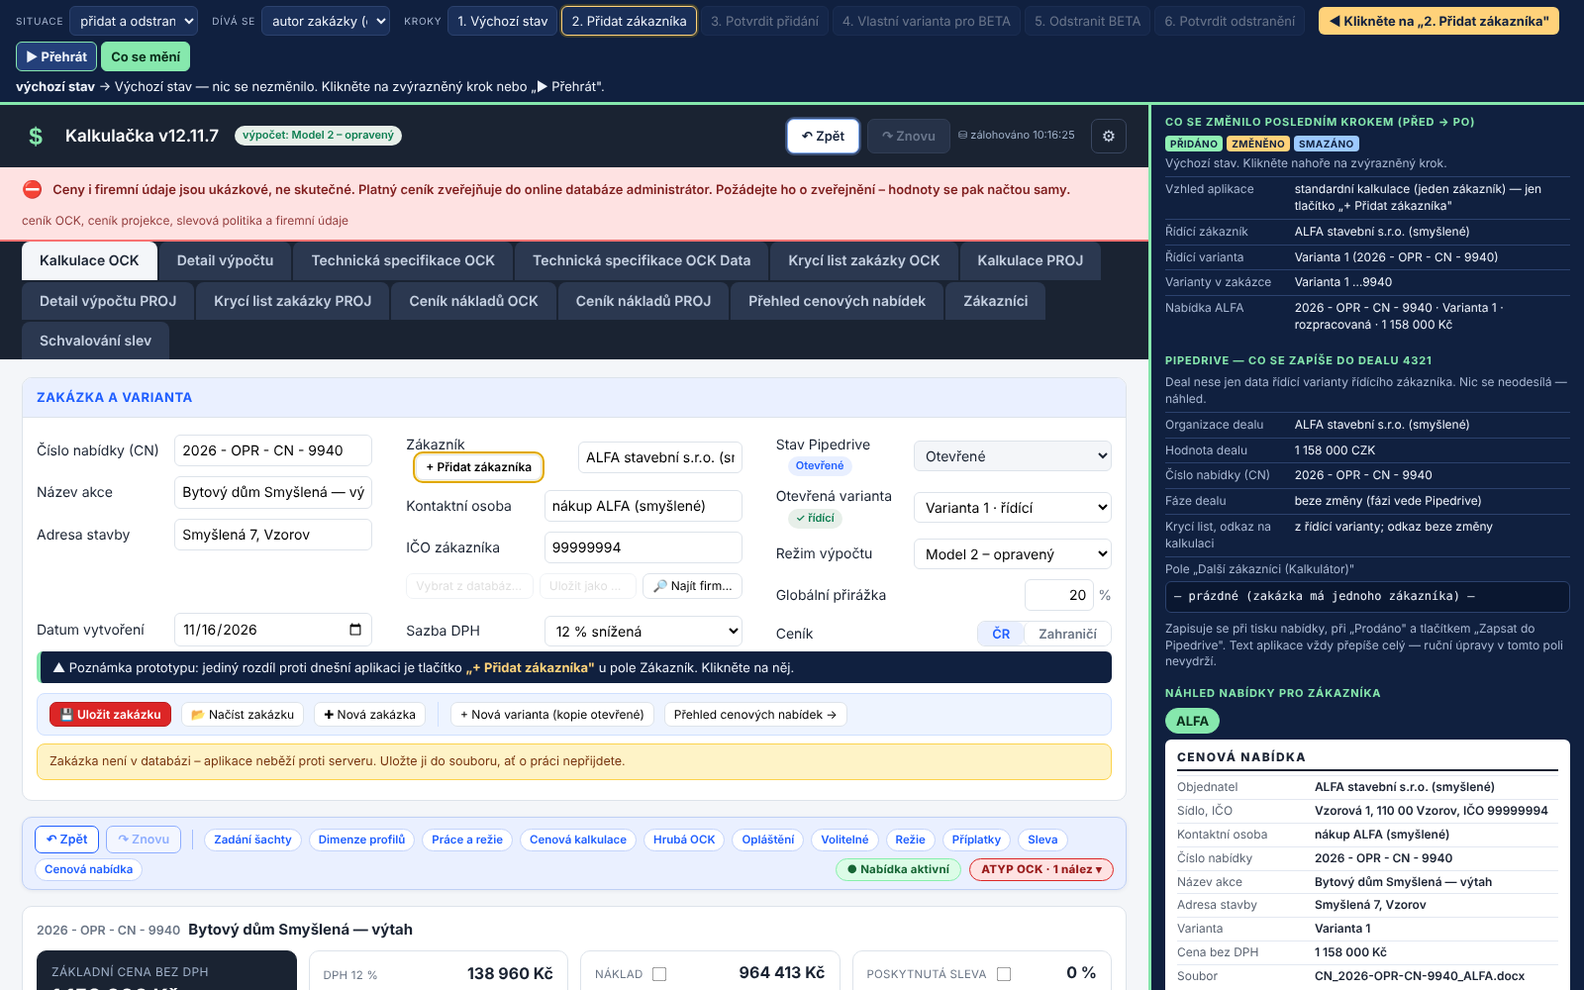
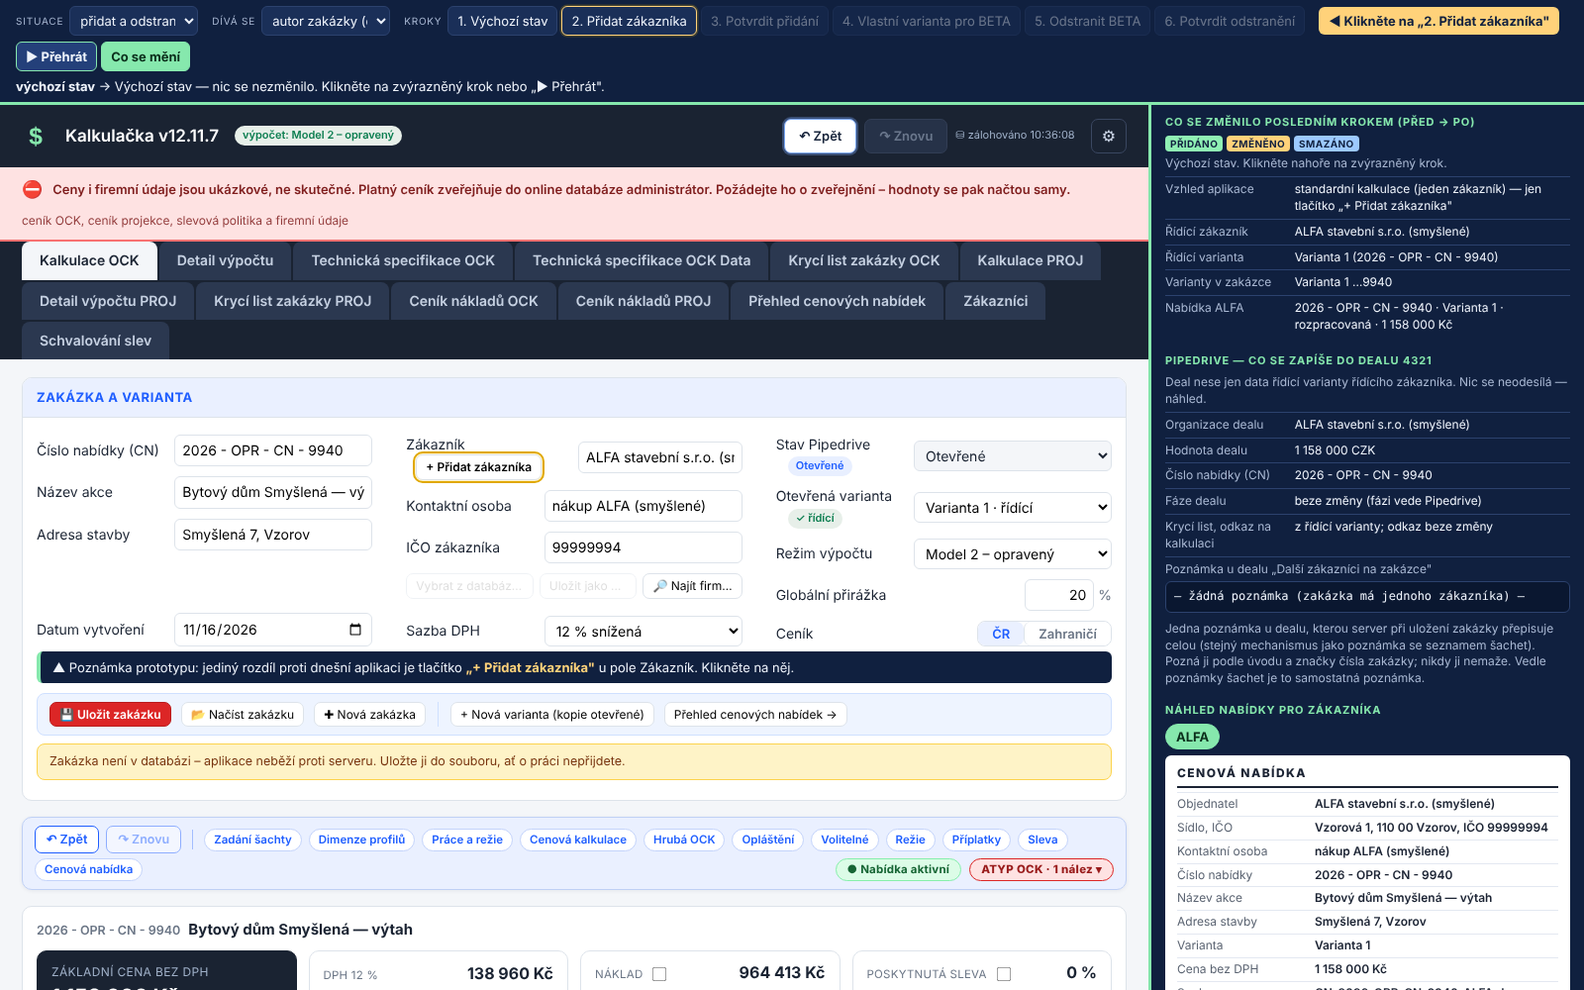
WIP: prototyp víc zákazníků v3 (poznámka u dealu, organizace při Prodáno, odstranění s odeslanou nabídkou jen administrátor)
Claude-Session: https://claude.ai/code/session_018mwHQHkWhKrpvqrinmjojg

Changed region(s): [[0.7188, 0.558, 1.0, 1.0], [0.4688, 0.124, 0.6562, 0.155]]

diff --git a/podklady/vz_prototyp/prototyp.js b/podklady/vz_prototyp/prototyp.js
@@ -25,12 +25,13 @@
     pridat: { nazev: 'přidat a odstranit zákazníka', kroky: [['form', '2. Přidat zákazníka'], ['pridejForm:b', '3. Potvrdit přidání'], ['vlastni:b', '4. Vlastní varianta pro BETA'], ['odeber:b', '5. Odstranit BETA'], ['odeberAno', '6. Potvrdit odstranění']] },
     odeslana: { nazev: 'odstranit zákazníka s odeslanou nabídkou', kroky: [['odeber:b', '2. Odstranit BETA'], ['odeberAno', '3. Potvrdit odstranění']] },
     stejna: { nazev: 'stejná varianta pro víc zákazníků', kroky: [['pridej:b', '2. Přidat zákazníka BETA'], ['odesli:a', '3. Odeslat nabídku ALFA'], ['odesli:b', '4. Odeslat tutéž nabídku BETA']] },
-    prodej: { nazev: 'prodej druhému zákazníkovi', kroky: [['prodej:b', '2. Prodáno → BETA'], ['prodejAno', '3. Potvrdit prodej'], ['org', '4. Změnit organizaci dealu'], ['orgAno', '5. Potvrdit zápis']] },
+    prodej: { nazev: 'prodej druhému zákazníkovi', kroky: [['prodej:b', '2. Prodáno → BETA'], ['prodejAno', '3. Potvrdit prodej'], ['orgAno', '4. Zkusit zápis organizace znovu (jen po výpadku)']] },
   };
+  const PD_STAVY = { ok: 'Pipedrive odpoví', vypadek: 'výpadek Pipedrive' };
   const ROLE = { autor: 'autor zakázky (obchodník)', jiny: 'jiný obchodník', admin: 'administrátor' };
   const ZNACKY = { pridano: 'přidáno', zmeneno: 'změněno', smazano: 'smazáno', beze: 'beze změny' };
   const DEAL_ID = '4321';
-  const S = { scenar: 'pridat', role: 'autor', otevreno: true, hraje: null, blik: false, nahled: '' };
+  const S = { scenar: 'pridat', role: 'autor', pd: 'ok', otevreno: true, hraje: null, blik: false, nahled: '' };
   let P, OBS = null, PK = null, KRESLI = false;
   const puvodni = { variantaCislo: window.variantaCislo, cisloSVariantou: window.cisloSVariantou };
 
@@ -88,14 +89,15 @@
   /* ----- Pipedrive: co deal ponese ----- */
   function dalsiText() {
     const ost = P.zak.filter((z) => z.id !== P.ridici);
-    if (!ost.length) return '';
+    const znacka = ' — nabídka ' + String(ZAK.cislo);
+    if (!ost.length) return P.poznamka ? 'Další zákazníci na zakázce: žádní' + znacka : '';
     const prodano = !!prodanoZ();
-    return 'Další zákazníci na zakázce (zapsal Kalkulátor ' + dnes() + '):\n' + ost.map((z) => {
+    return 'Další zákazníci na zakázce:\n' + ost.map((z) => {
       const pl = z.platna;
       const nab = pl ? 'CN ' + pl.cislo + ' z ' + pl.datum + ', ' + kc(pl.cena) + ' bez DPH' : 'nabídka zatím neodeslána (' + cisloZ(z) + ')';
       const nova = pl && pl.vid !== z.varianta ? ' · připravuje se nová ' + cisloZ(z) : '';
       return '• ' + z.nazev + ' — ' + nab + nova + (prodano ? ' — neprodáno' : '');
-    }).join('\n');
+    }).join('\n') + '\n' + znacka.trim();
   }
   function pd() {
     const rz = ridiciZ(), rv = Va(rz.varianta);
@@ -127,7 +129,7 @@
   function novyZ(id, varianta) { return Object.assign({ id, pismeno: PISMENA[id], varianta, odeslano: {}, platna: null, prodano: '' }, FIRMY[id]); }
   function pridej(id, vlastniVar) {
     const rz = ridiciZ();
-    P.zak.push(novyZ(id, rz.varianta));
+    P.zak.push(novyZ(id, rz.varianta)); P.poznamka = true;
     zapis(ROLE[S.role], 'přidal zákazníka ' + FIRMY[id].kratce + ' (písmeno ' + PISMENA[id] + ') — nabídka ' + cisloZ(Zk(id)) + ', stejná varianta jako ' + rz.kratce);
     if (vlastniVar) vlastni(id); else otevri(id);
   }
@@ -176,13 +178,20 @@
     zapis(ROLE[S.role], 'PRODÁNO zákazníkovi ' + z.kratce + ' (nabídka ' + cisloZ(z) + '); řídící zákazník ' + stary.kratce + ' → ' + z.kratce
       + ', řídící varianta „' + v.nazev + '" (#563); do dealu ' + DEAL_ID + ' jdou data této varianty, ' + P.zak.filter((x) => x.id !== id).map((x) => x.kratce).join(', ') + ' zůstává jako textová zmínka');
     otevri(id);
+    orgZapis(false);
   }
-  function orgAno() {
-    const stara = P.deal.org;
-    P.potvrzeni = null;
-    P.deal.org = ridiciZ().nazev;
-    zapis(ROLE[S.role], 'změnil organizaci dealu ' + DEAL_ID + ' v Pipedrive: ' + stara + ' → ' + P.deal.org + ' (po potvrzení)');
+  /* Organizace dealu = vítězný zákazník (J. V. 16. 11. 2026). Server ji najde podle IČO, jinak založí. */
+  function orgZapis(znovu) {
+    const stara = P.deal.org, rz = ridiciZ();
+    if (S.pd === 'vypadek' && !znovu) {
+      P.orgStav = 'chyba';
+      zapis('server', 'organizaci dealu ' + DEAL_ID + ' se nepodařilo přepsat (Pipedrive neodpověděl včas) — prodej je uložený, zápis čeká');
+      return;
+    }
+    P.deal.org = rz.nazev; P.orgStav = 'zapsano';
+    zapis('server', 'organizace dealu ' + DEAL_ID + ' přepsána na vítězného zákazníka: ' + stara + ' → ' + rz.nazev + ' (nalezena podle IČO ' + rz.ico + '; kdyby v Pipedrive nebyla, založí se)' + (znovu ? ' — opakovaný zápis, spustil ' + ROLE[S.role] : ''));
   }
+  function orgAno() { orgZapis(true); }
   /* Odstranění dalšího zákazníka. Co odešlo, zůstává doložené: zamčená varianta se nemaže (pravidlo #34),
    * razítko tisku se snímkem adresáta zůstává v zámku. Nezamčenou vlastní variantu lze smazat s ním. */
   function odeberInfo(id) {
@@ -218,16 +227,15 @@
     if (co === 'uprav') return !!z && !zamcena && sdili(z).length === 1 && Z.zdvih !== 15;
     if (co === 'prodej') return !!z && !!odeslanoTed(z) && !prodano && !P.potvrzeni;
     if (co === 'prodejAno') return !!(P.potvrzeni && P.potvrzeni.typ === 'prodej');
-    if (co === 'org') return orgNesedi() && smiRidit() && !P.potvrzeni;
-    if (co === 'orgAno') return !!(P.potvrzeni && P.potvrzeni.typ === 'org');
+    if (co === 'orgAno') return P.orgStav === 'chyba' && orgNesedi() && smiRidit();
     if (co === 'ridici') return !!z && z.id !== P.ridici && !prodano && smiRidit();
-    if (co === 'odeber') return !!z && z.id !== P.ridici && !z.prodano && !P.potvrzeni && (smiRidit() || !Object.keys(z.odeslano).length);
+    if (co === 'odeber') return !!z && z.id !== P.ridici && !z.prodano && !P.potvrzeni && (S.role === 'admin' || !Object.keys(z.odeslano).length);
     return true;
   }
   const dalsiKrok = () => (SCENARE[S.scenar].kroky.find(([a], i) => i >= P.i && lze(a)) || [''])[0];
 
   function vychozi() {
-    P = { zak: [], ridici: 'a', vybrany: 'a', deal: { org: FIRMY.a.nazev }, protokol: [], potvrzeni: null, archiv: {}, formular: false, chyba: '', krok: 'vychozi', i: 0, pred: null };
+    P = { zak: [], ridici: 'a', vybrany: 'a', deal: { org: FIRMY.a.nazev }, protokol: [], potvrzeni: null, archiv: {}, poznamka: false, orgStav: '', formular: false, chyba: '', krok: 'vychozi', i: 0, pred: null };
     ZAK = novaZakazka();
     if (typeof syncVarianta === 'function') syncVarianta();
     Object.assign(Z, { sirka: 1.6, hloubka: 2.1, zdvih: 12, prejezd: 2.7, prohluben: 1.05 });
@@ -269,7 +277,7 @@
         + tl('odesli:' + z.id, '🖨 Tisk CN', 'vytisknout (odeslat) cenovou nabídku tomuto zákazníkovi — varianta se zamkne')
         + tl('vlastni:' + z.id, '⧉ Vlastní varianta', 'založit kopii varianty jen pro tohoto zákazníka')
         + tl('prodej:' + z.id, '✔ Prodáno', 'zakázku získal tento zákazník')
-        + tl('odeber:' + z.id, '🗑 Odstranit', z.id === P.ridici ? 'řídícího zákazníka nejde odstranit, dokud se řídícím nestane jiný' : (z.prodano ? 'zákazníka s prodanou nabídkou nejde odstranit' : 'odstranit zákazníka ze zakázky (s potvrzením)')) + '</td></tr>'
+        + tl('odeber:' + z.id, '🗑 Odstranit', z.id === P.ridici ? 'řídícího zákazníka nejde odstranit, dokud se řídícím nestane jiný' : (z.prodano ? 'zákazníka s prodanou nabídkou nejde odstranit' : (Object.keys(z.odeslano).length && S.role !== 'admin' ? 'zákazníka, kterému už odešla nabídka, smí odstranit jen administrátor' : 'odstranit zákazníka ze zakázky (s potvrzením)'))) + '</td></tr>'
         + (zn ? '<tr class="vzp-pp vzp-pp-' + zn + '"><td></td><td colspan="5">' + stitek(zn) + ' ' + (zn === 'pridano' ? '<b>' + esc(snimek()['z:' + z.id]) + '</b>'
           : '<s>' + esc(P.pred['z:' + z.id]) + '</s> → <b>' + esc(snimek()['z:' + z.id]) + '</b>') + '</td></tr>' : '');
     }).join('');
@@ -283,17 +291,13 @@
         + r('Řídící zákazník', rz.nazev, z.nazev) + r('Řídící varianta (prodaná = řídící)', rv.nazev, v.nazev)
         + r('Deal ' + DEAL_ID + ': hodnota', kc(cenaV(rv)), kc(cenaV(v))) + r('Deal ' + DEAL_ID + ': číslo nabídky', cisloZ(rz), cisloZ(z))
         + r('Deal ' + DEAL_ID + ': krycí list', 'varianta „' + rv.nazev + '"', 'varianta „' + v.nazev + '"')
-        + r('Deal ' + DEAL_ID + ': další zákazníci (text)', P.zak.filter((x) => x.id !== P.ridici).map((x) => x.kratce).join(', ') || '—', P.zak.filter((x) => x.id !== z.id).map((x) => x.kratce + ' — neprodáno').join(', ') || '—')
+        + r('Deal ' + DEAL_ID + ': organizace', P.deal.org, z.nazev)
+        + r('Deal ' + DEAL_ID + ': poznámka „Další zákazníci"', P.zak.filter((x) => x.id !== P.ridici).map((x) => x.kratce).join(', ') || '—', P.zak.filter((x) => x.id !== z.id).map((x) => x.kratce + ' — neprodáno').join(', ') || '—')
         + '<div class="vzp-pt"><button type="button" class="vzp-zelene' + (dalsiKrok() === 'prodejAno' ? ' vzp-dalsi' : '') + '" data-vzp="prodejAno">Prodáno — potvrdit</button><button type="button" class="mini" data-vzp="potvNe">Zrušit</button>'
-        + '<span>Nabídky ostatních zákazníků zůstávají zamčené a dohledatelné; organizaci dealu v Pipedrive aplikace sama nemění.</span></div></div>';
+        + '<span>Organizace dealu se přepíše na vítězného zákazníka: v Pipedrive se najde podle IČO, jinak se založí. Původní organizace se nemění. Nabídky ostatních zákazníků zůstávají zamčené a dohledatelné.</span></div></div>';
     }
-    if (P.potvrzeni && P.potvrzeni.typ === 'org')
-      potv = '<div class="vzp-potvrzeni"><b>Změnit organizaci dealu ' + DEAL_ID + ' v Pipedrive?</b>'
-        + '<div class="vzp-pr"><span>Organizace dealu</span><span><s>' + esc(P.deal.org) + '</s> → <b>' + esc(ridiciZ().nazev) + '</b> (IČO ' + esc(ridiciZ().ico) + ')</span></div>'
-        + '<div class="vzp-pt"><button type="button" class="vzp-zelene' + (dalsiKrok() === 'orgAno' ? ' vzp-dalsi' : '') + '" data-vzp="orgAno">Zapsat do Pipedrive</button><button type="button" class="mini" data-vzp="potvNe">Nezapisovat</button>'
-        + '<span>Deal se jen přepojí na organizaci s tímto IČO (když v Pipedrive není, založí se podle ARES). Původní organizace se nemění ani nemaže.</span></div></div>';
-    const upoz = orgNesedi() && !P.potvrzeni ? '<div class="vzp-upoz">Deal ' + DEAL_ID + ' je v Pipedrive veden na <b>' + esc(P.deal.org) + '</b>, řídící zákazník je teď <b>' + esc(ridiciZ().nazev) + '</b>. '
-      + (smiRidit() ? '<button type="button" class="mini' + (dalsiKrok() === 'org' && !S.hraje ? ' vzp-dalsi' : '') + '" data-vzp="org">Změnit organizaci dealu v Pipedrive…</button>' : 'Organizaci dealu mění autor zakázky nebo administrátor.') + '</div>' : '';
+    const upoz = P.orgStav === 'chyba' && orgNesedi() ? '<div class="vzp-upoz"><b>Organizace dealu se nepřepsala</b> (Pipedrive neodpověděl). Deal ' + DEAL_ID + ' je dál veden na <b>' + esc(P.deal.org) + '</b>, vítězný zákazník je <b>' + esc(ridiciZ().nazev) + '</b>. Prodej je uložený. '
+      + (smiRidit() ? '<button type="button" class="mini' + (dalsiKrok() === 'orgAno' && !S.hraje ? ' vzp-dalsi' : '') + '" data-vzp="orgAno">Zkusit zápis znovu</button>' : 'Zápis zopakuje autor zakázky nebo administrátor.') + '</div>' : '';
     const napoveda = P.krok === 'vychozi' && !S.hraje && !P.formular ? '<span class="vzp-sem">◀ ' + esc(napovedaText()) + '</span>' : '';
     return '<h2><span style="flex:1">Zákazníci zakázky <span class="pill">zkušební funkce</span>' + (noveVidet() ? ' <span class="vzp-zn vzp-zn-pridano">nově se objevilo</span>' : '') + '</span></h2><div class="body">'
       + '<div class="note" style="margin-bottom:8px">Jednu zakázku může poptat víc zákazníků. Každý má <b>svou nabídku</b> (číslo s písmenem zákazníka) — buď sdílí variantu s jiným zákazníkem, nebo má vlastní. '
@@ -324,7 +328,8 @@
     const nabidka = odeslano ? 'odeslána ' + esc(Object.values(z.odeslano).join(', ')) + ' → <b>doklad zůstává</b> (razítko tisku se jménem adresáta v zámku varianty, protokol)' : 'rozpracovaná, neodeslaná → <b>zanikne</b>';
     return '<div class="vzp-potvrzeni"><b>Odstranit zákazníka ' + esc(z.nazev) + ' ze zakázky?</b>'
       + r('Jeho nabídka ' + cisloZ(z), nabidka) + r('Varianta „' + v.nazev + '"', varianta)
-      + r('Deal ' + DEAL_ID + ': další zákazníci (text)', zbyde > 1 ? 'řádek ' + esc(z.kratce) + ' zmizí, ostatní zůstanou' : 'pole se <b>vyprázdní</b> (deal dál nese jen řídícího zákazníka)')
+      + r('Deal ' + DEAL_ID + ': poznámka „Další zákazníci"', zbyde > 1 ? 'řádek ' + esc(z.kratce) + ' zmizí, ostatní zůstanou' : 'upraví se na <b>„žádní"</b> (poznámka se nemaže, jako u šachet)')
+      + (odeslano ? r('Kdo smí', 'jen <b>administrátor</b> — zákazníkovi už odešla nabídka') : '')
       + r('Písmeno -' + z.pismeno, odeslano ? 'už se nepřidělí jinému zákazníkovi (je na odeslaném papíře)' : 'uvolní se — nic s ním neodešlo')
       + r('Vzhled aplikace', zbyde > 1 ? 'beze změny (zůstávají ' + zbyde + ' zákazníci)' : '<s>přepínač zákazníků, karta Zákazníci zakázky, štítky</s> → <b>standardní kalkulace</b>, jen tlačítko „+ Přidat zákazníka"')
       + '<div class="vzp-pt"><button type="button" class="vzp-cervene' + (dalsiKrok() === 'odeberAno' ? ' vzp-dalsi' : '') + '" data-vzp="odeberAno">Odstranit zákazníka</button><button type="button" class="mini" data-vzp="potvNe">Zrušit</button>'
@@ -392,7 +397,7 @@
   /* ----- lišta a panel ----- */
   function souhrn() {
     if (P.krok === 'vychozi') return 'Výchozí stav — nic se nezměnilo. Klikněte na zvýrazněný krok nebo „▶ Přehrát".';
-    const nazvy = { pohled: 'vzhled aplikace', varianty: 'varianty v zakázce', rz: 'řídící zákazník', rv: 'řídící varianta', 'pd.org': 'organizace dealu', 'pd.hodnota': 'hodnota dealu', 'pd.cn': 'číslo nabídky v dealu', 'pd.faze': 'fáze dealu', 'pd.dalsi': 'text „Další zákazníci" v dealu', rejstrik: 'řádek rejstříku' };
+    const nazvy = { pohled: 'vzhled aplikace', varianty: 'varianty v zakázce', rz: 'řídící zákazník', rv: 'řídící varianta', 'pd.org': 'organizace dealu', 'pd.hodnota': 'hodnota dealu', 'pd.cn': 'číslo nabídky v dealu', 'pd.faze': 'fáze dealu', 'pd.dalsi': 'poznámka „Další zákazníci" u dealu', rejstrik: 'řádek rejstříku' };
     P.zak.forEach((z) => { nazvy['z:' + z.id] = 'nabídka ' + z.kratce; });
     const sk = { pridano: [], zmeneno: [], smazano: [] };
     Object.keys(nazvy).forEach((k) => { const z = znacka(k); if (sk[z]) sk[z].push(nazvy[k]); });
@@ -408,6 +413,7 @@
     document.getElementById('vzpLista').innerHTML =
       '<div class="vzp-sk"><label class="vzp-pop" for="vzpScenar">Situace</label>' + vyber('vzpScenar', SCENARE, S.scenar) + '</div>'
       + '<div class="vzp-sk"><label class="vzp-pop" for="vzpRole">Dívá se</label>' + vyber('vzpRole', ROLE, S.role) + '</div>'
+      + (S.scenar === 'prodej' ? '<div class="vzp-sk"><label class="vzp-pop" for="vzpPd">Pipedrive</label>' + vyber('vzpPd', PD_STAVY, S.pd) + '</div>' : '')
       + '<div class="vzp-sk vzp-kroky"><span class="vzp-pop">Kroky</span>' + kr('reset', '1. Výchozí stav') + kroky.map(([a, t]) => kr(a, t)).join('') + '</div>'
       + (P.krok === 'vychozi' && !S.hraje && k ? '<span class="vzp-napoveda">◀ Klikněte na „' + esc(k[1]) + '"</span>' : '')
       + '<div class="vzp-sk"><button type="button" class="vzp-hraj" data-vzp="hraj">' + (S.hraje ? '■ Zastavit' : '▶ Přehrát') + '</button>'
@@ -447,13 +453,13 @@
       + Object.keys(P.pred).filter((k) => k.indexOf('z:') === 0 && !Zk(k.slice(2))).map((k) => radekPP('Nabídka ' + FIRMY[k.slice(2)].kratce, k)).join('')
       + '<h3>Pipedrive — co se zapíše do dealu ' + DEAL_ID + '</h3>'
       + '<p>Deal nese jen data řídící varianty řídícího zákazníka. Nic se neodesílá — náhled.</p>'
-      + radekPP('Organizace dealu', 'pd.org', orgNesedi() ? '⚠ neodpovídá řídícímu zákazníkovi — aplikace ji sama nemění' : '')
+      + radekPP('Organizace dealu', 'pd.org', orgNesedi() ? (P.orgStav === 'chyba' ? '⚠ zápis selhal — čeká na opakování' : '⚠ neodpovídá řídícímu zákazníkovi (řídící se změnil ručně, bez prodeje — organizace se přepisuje až při Prodáno)') : (P.orgStav === 'zapsano' ? 'přepsáno na vítězného zákazníka (podle IČO)' : ''))
       + radekPP('Hodnota dealu', 'pd.hodnota') + radekPP('Číslo nabídky (CN)', 'pd.cn') + radekPP('Fáze dealu', 'pd.faze')
       + '<div class="vzp-r"><span>Krycí list, odkaz na kalkulaci</span><span>z řídící varianty; odkaz beze změny</span></div>'
-      + '<div class="vzp-r vzp-r-blok"><span>Pole „Další zákazníci (Kalkulátor)"' + stitek(zd) + '</span>'
+      + '<div class="vzp-r vzp-r-blok"><span>Poznámka u dealu „Další zákazníci na zakázce"' + stitek(zd) + '</span>'
       + (zd && P.pred['pd.dalsi'] ? '<div class="vzp-odp vzp-odp-pred">' + esc(P.pred['pd.dalsi']) + '</div>' : '')
-      + '<div class="vzp-odp' + (zd ? ' vzp-odp-' + zd : '') + '">' + (d.dalsi ? esc(d.dalsi) : '— prázdné (zakázka má jednoho zákazníka) —') + '</div></div>'
-      + '<p>Zapisuje se při tisku nabídky, při „Prodáno" a tlačítkem „Zapsat do Pipedrive". Text aplikace vždy přepíše celý — ruční úpravy v tomto poli nevydrží.</p>'
+      + '<div class="vzp-odp' + (zd ? ' vzp-odp-' + zd : '') + '">' + (d.dalsi ? esc(d.dalsi) : '— žádná poznámka (zakázka má jednoho zákazníka) —') + '</div></div>'
+      + '<p>Jedna poznámka u dealu, kterou server při uložení zakázky přepisuje celou (stejný mechanismus jako poznámka se seznamem šachet). Pozná ji podle úvodu a značky čísla zakázky; nikdy ji nemaže. Vedle poznámky šachet je to samostatná poznámka.</p>'
       + '<h3>Náhled nabídky pro zákazníka</h3>' + nahledHtml()
       + '<h3>Přehled cenových nabídek (řádek rejstříku)</h3>' + radekPP('Řádek', 'rejstrik')
       + '<p>Hledání v Přehledu najde zakázku i podle názvu dalšího zákazníka.</p>'
@@ -467,9 +473,10 @@
       + '<li>Zákazník ukazuje na jednu variantu: sdílenou, nebo vlastní (kopii).</li>'
       + '<li>Tisk nabídky je vždy pro jednoho zákazníka; varianta se zamkne prvním tiskem, další tisk jinému zákazníkovi jen přidá razítko „komu".</li>'
       + '<li>Řídící varianta = varianta řídícího zákazníka. Prodáno jinému zákazníkovi z něj udělá řídícího (prodaná = řídící, #563).</li>'
-      + '<li>Deal nese data řídící varianty; ostatní zákazníci jsou jen v textovém poli (název, platná nabídka, datum, cena bez DPH).</li>'
+      + '<li>Deal nese data řídící varianty; ostatní zákazníci jsou jen v jedné poznámce u dealu (název, platná nabídka, datum, cena bez DPH).</li>'
+      + '<li>Při Prodáno jinému zákazníkovi se organizace dealu přepíše na vítěze: najde se podle IČO, jinak se založí. Selže-li zápis, prodej platí a zápis se zopakuje.</li>'
       + '<li>Řídícího zákazníka a organizaci dealu mění autor zakázky a administrátor.</li>'
-      + '<li>Odstranit jde každého dalšího zákazníka (s potvrzením), ne řídícího a ne toho, komu se prodalo. Co mu odešlo, zůstává doložené v zámku varianty; neodeslaná vlastní varianta se smaže s ním.</li>'
+      + '<li>Odstranit jde každého dalšího zákazníka (s potvrzením), ne řídícího a ne toho, komu se prodalo. Zákazníka, kterému už odešla nabídka, odstraní jen administrátor. Co mu odešlo, zůstává doložené v zámku varianty; neodeslaná vlastní varianta se smaže s ním.</li>'
       + '<li>Po odstranění posledního dalšího zákazníka je zakázka i aplikace stejná jako s jedním zákazníkem.</li></ol>';
   }
   function vyska() {
@@ -491,7 +498,7 @@
   }
 
   const POPISY = { pridej: 'zákazník přidán (stejná varianta)', odesli: 'nabídka vytištěna (odeslána)', vlastni: 'založena vlastní varianta zákazníka', uprav: 'vlastní varianta upravena',
-    prodej: 'prodej — čeká na potvrzení', prodejAno: 'prodáno, řídící zákazník změněn', org: 'změna organizace dealu — čeká na potvrzení', orgAno: 'organizace dealu změněna', ridici: 'řídící zákazník změněn ručně',
+    prodej: 'prodej — čeká na potvrzení', prodejAno: 'prodáno, řídící zákazník změněn', orgAno: 'organizace dealu přepsána (opakovaný zápis)', ridici: 'řídící zákazník změněn ručně',
     odeber: 'odstranění zákazníka — čeká na potvrzení', odeberAno: 'zákazník odstraněn', form: 'formulář nového zákazníka', varianta: 'zákazníkovi přiřazena jiná varianta' };
   function krok(a, arg) {
     const [co, id] = a.split(':');
@@ -504,9 +511,8 @@
     if (co === 'potvNe') { P.potvrzeni = null; kresli(); return; }
     if (!lze(a)) return;
     const idx = SCENARE[S.scenar].kroky.findIndex((x) => x[0] === a);
-    if (['prodej', 'org', 'form', 'odeber'].includes(co)) P.pred = snimek();   // krok jen otevírá potvrzení — nic se nemění
+    if (['prodej', 'form', 'odeber'].includes(co)) P.pred = snimek();   // krok jen otevírá potvrzení — nic se nemění
     if (co === 'prodej') { P.potvrzeni = { typ: 'prodej', id }; otevri(id); }
-    else if (co === 'org') P.potvrzeni = { typ: 'org' };
     else if (co === 'form') P.formular = true;
     else if (co === 'odeber') { P.potvrzeni = { typ: 'odeber', id }; P.formular = false; }
     else {
@@ -533,6 +539,7 @@
   function hraj() {
     if (S.hraje) { zastav(); kresli(); return; }
     if (S.role === 'jiny') S.role = 'autor';
+    if (S.scenar === 'odeslana') S.role = 'admin';
     const fronta = ['reset'].concat(SCENARE[S.scenar].kroky.map((x) => x[0]));
     S.hraje = { i: 0, t: null };
     const dalsi = () => {
@@ -556,9 +563,10 @@
   }
   function zmena(e) {
     const t = e.target; if (!t) return;
-    if (t.id === 'vzpScenar' || t.id === 'vzpRole') {
-      zastav(); S[t.id === 'vzpScenar' ? 'scenar' : 'role'] = t.value;
-      if (t.id === 'vzpScenar') { vychozi(); kresli(); window.scrollTo(0, 0); } else kresli();
+    if (t.id === 'vzpScenar' || t.id === 'vzpRole' || t.id === 'vzpPd') {
+      zastav(); S[{ vzpScenar: 'scenar', vzpRole: 'role', vzpPd: 'pd' }[t.id]] = t.value;
+      if (t.id === 'vzpScenar' && t.value === 'odeslana') S.role = 'admin';   // odstranit zákazníka s odeslanou nabídkou smí jen administrátor
+      if (t.id !== 'vzpRole') { vychozi(); kresli(); window.scrollTo(0, 0); } else kresli();
       return;
     }
     const zr = t.getAttribute && t.getAttribute('data-vzp-ridici');
